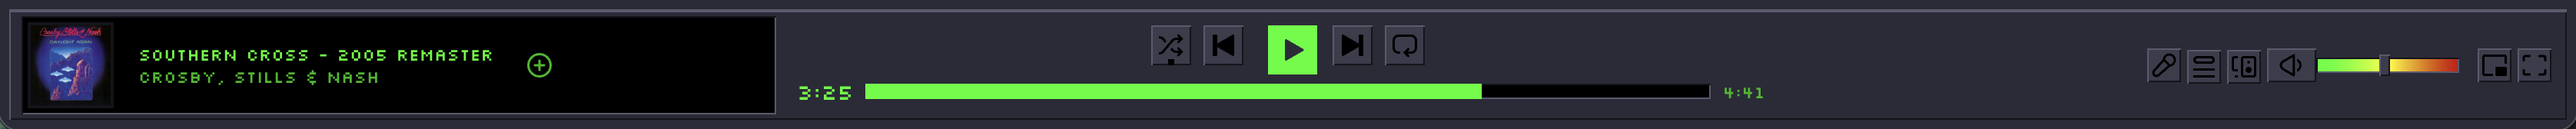
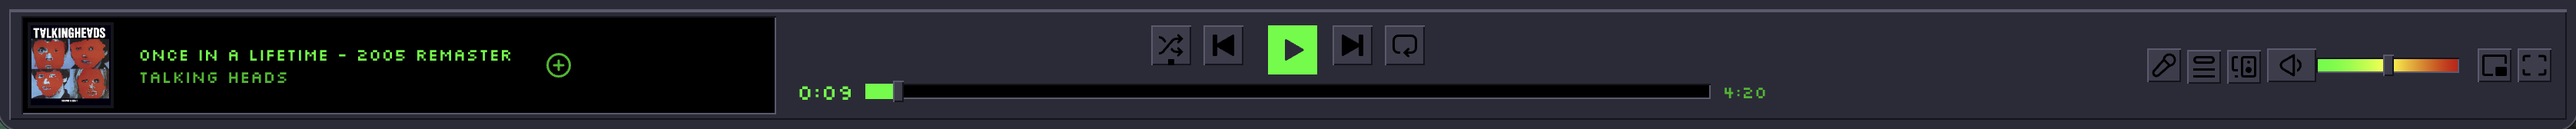
refactor: scope the now playing bar rules and name its measurements

Changed region(s): [[0.0, 0.2083, 0.2172, 0.8036], [0.3103, 0.625, 0.5895, 0.7738], [0.8998, 0.4464, 0.9308, 0.5655]]

diff --git a/user.css b/user.css
@@ -31,6 +31,11 @@
   --wa-display-bg: #000;
   --wa-knob-w: 7px;
   --wa-knob-h: 14px;
+  --wa-groove-h: 10px;
+
+  /* Width reserved on the display for the spectrum analyser canvas that FN-03
+     mounts there, so its size and this padding come from one place. */
+  --wa-spectrum-w: 84px;
 
   /* The middle of the volume gradient. Its ends are theme colours already,
      so only the yellow needs defining here. */
@@ -97,18 +102,18 @@
    becomes the LED panel; the cover keeps its own place to the left of it.
    The padding on the right reserves the strip where FN-03 mounts its canvas,
    so the text never runs underneath it. */
-.main-nowPlayingBar-left [data-testid="now-playing-widget"] {
+.main-nowPlayingBar-nowPlayingBar .main-nowPlayingBar-left [data-testid="now-playing-widget"] {
   background-color: var(--wa-display-bg);
   box-shadow: var(--wa-sunken);
-  padding: 4px 84px 4px 4px;
+  padding: 4px var(--wa-spectrum-w) 4px 4px;
 }
 
 /* The title and artist carry readable class names of their own, so they are
    addressed directly rather than through the widget's testid. */
-.main-nowPlayingWidget-trackInfo .main-trackInfo-name,
-.main-nowPlayingWidget-trackInfo .main-trackInfo-name a,
-.main-nowPlayingWidget-trackInfo .main-trackInfo-artists,
-.main-nowPlayingWidget-trackInfo .main-trackInfo-artists a {
+.main-nowPlayingBar-nowPlayingBar .main-nowPlayingWidget-trackInfo .main-trackInfo-name,
+.main-nowPlayingBar-nowPlayingBar .main-nowPlayingWidget-trackInfo .main-trackInfo-name a,
+.main-nowPlayingBar-nowPlayingBar .main-nowPlayingWidget-trackInfo .main-trackInfo-artists,
+.main-nowPlayingBar-nowPlayingBar .main-nowPlayingWidget-trackInfo .main-trackInfo-artists a {
   font-family: var(--wa-font-pixel);
   font-size: 11px;
   text-transform: uppercase;
@@ -116,19 +121,19 @@
   letter-spacing: 0;
 }
 
-.main-nowPlayingWidget-trackInfo .main-trackInfo-name,
-.main-nowPlayingWidget-trackInfo .main-trackInfo-name a {
+.main-nowPlayingBar-nowPlayingBar .main-nowPlayingWidget-trackInfo .main-trackInfo-name,
+.main-nowPlayingBar-nowPlayingBar .main-nowPlayingWidget-trackInfo .main-trackInfo-name a {
   color: var(--spice-text);
 }
 
-.main-nowPlayingWidget-trackInfo .main-trackInfo-artists,
-.main-nowPlayingWidget-trackInfo .main-trackInfo-artists a {
+.main-nowPlayingBar-nowPlayingBar .main-nowPlayingWidget-trackInfo .main-trackInfo-artists,
+.main-nowPlayingBar-nowPlayingBar .main-nowPlayingWidget-trackInfo .main-trackInfo-artists a {
   color: var(--spice-subtext);
 }
 
 /* The cover sits recessed into the panel, like a part screwed into the case. */
-.main-nowPlayingBar-left [data-testid="cover-art-image"],
-.main-nowPlayingBar-left .cover-art {
+.main-nowPlayingBar-nowPlayingBar .main-nowPlayingBar-left [data-testid="cover-art-image"],
+.main-nowPlayingBar-nowPlayingBar .main-nowPlayingBar-left .cover-art {
   border: 2px solid var(--wa-bevel-dark);
   box-shadow: var(--wa-sunken);
 }
@@ -136,8 +141,8 @@
 /* Transport buttons. Winamp gives play no special shape, so neither do we.
    Only color, shadow and size change: touching layout or pointer-events here
    is how a drag target silently stops working. */
-[data-testid="player-controls"] button,
-.main-nowPlayingBar-right button {
+.main-nowPlayingBar-nowPlayingBar [data-testid="player-controls"] button,
+.main-nowPlayingBar-nowPlayingBar .main-nowPlayingBar-right button {
   background-color: var(--spice-button);
   box-shadow: var(--wa-raised);
   color: var(--spice-shadow);
@@ -146,7 +151,7 @@
 /* Spotify draws play larger than its neighbours; here the whole transport is
    one size. Its green is left alone on purpose: the owner preferred it to the
    uniform gray Winamp has, and it is the one Spotify colour the theme keeps. */
-[data-testid="player-controls"] button {
+.main-nowPlayingBar-nowPlayingBar [data-testid="player-controls"] button {
   width: 26px;
   height: 26px;
 }
@@ -154,21 +159,21 @@
 /* Sized on the column, not on the controls group: the volume speaker and the
    miniplayer and fullscreen buttons live outside extraControls and came out
    at three different widths. One key size for the whole right-hand strip. */
-.main-nowPlayingBar-right button {
+.main-nowPlayingBar-nowPlayingBar .main-nowPlayingBar-right button {
   flex: 0 0 auto;
   width: 22px;
   height: 22px;
   padding: 0;
 }
 
-[data-testid="player-controls"] button:hover,
-.main-nowPlayingBar-right button:hover {
+.main-nowPlayingBar-nowPlayingBar [data-testid="player-controls"] button:hover,
+.main-nowPlayingBar-nowPlayingBar .main-nowPlayingBar-right button:hover {
   background-color: var(--wa-bevel-light);
   transform: none;
 }
 
-[data-testid="player-controls"] button:active,
-.main-nowPlayingBar-right button:active {
+.main-nowPlayingBar-nowPlayingBar [data-testid="player-controls"] button:active,
+.main-nowPlayingBar-nowPlayingBar .main-nowPlayingBar-right button:active {
   box-shadow: var(--wa-sunken);
 }
 
@@ -176,8 +181,8 @@
    with colour alone, which the black icon above overrides. Winamp shows a
    toggled key as pressed in, so the bevel carries the state and the icon
    turns green with it. */
-[data-testid="player-controls"] button[aria-checked="true"],
-.main-nowPlayingBar-right button[aria-checked="true"] {
+.main-nowPlayingBar-nowPlayingBar [data-testid="player-controls"] button[aria-checked="true"],
+.main-nowPlayingBar-nowPlayingBar .main-nowPlayingBar-right button[aria-checked="true"] {
   box-shadow: var(--wa-sunken);
   color: var(--spice-text);
 }
@@ -186,28 +191,28 @@
    reads as a cut-off button rather than a deliberate one. Winamp's case has a
    margin on every side, so the column gets one and its controls are centred
    on the same line. */
-.main-nowPlayingBar-right {
+.main-nowPlayingBar-nowPlayingBar .main-nowPlayingBar-right {
   padding-right: 10px;
 }
 
-.main-nowPlayingBar-extraControls {
+.main-nowPlayingBar-nowPlayingBar .main-nowPlayingBar-extraControls {
   align-items: center;
   gap: 4px;
 }
 
 /* Winamp's elapsed counter is the big number on the panel; the duration is
    the small one beside it. */
-[data-testid="playback-position"],
-[data-testid="playback-duration"] {
+.main-nowPlayingBar-nowPlayingBar [data-testid="playback-position"],
+.main-nowPlayingBar-nowPlayingBar [data-testid="playback-duration"] {
   font-family: var(--wa-font-pixel);
   color: var(--spice-text);
 }
 
-[data-testid="playback-position"] {
+.main-nowPlayingBar-nowPlayingBar [data-testid="playback-position"] {
   font-size: 14px;
 }
 
-[data-testid="playback-duration"] {
+.main-nowPlayingBar-nowPlayingBar [data-testid="playback-duration"] {
   font-size: 11px;
   color: var(--spice-subtext);
 }
@@ -220,32 +225,32 @@
    that, so it is set on the same element, one step more specific. Without it
    the layers stay 4px inside a 10px groove and the bar looks like it shrinks
    when the pointer arrives. */
-[data-testid="playback-progressbar"] .progress-bar,
-.main-nowPlayingBar-volumeBar .progress-bar {
-  --progress-bar-height: 10px;
+.main-nowPlayingBar-nowPlayingBar [data-testid="playback-progressbar"] .progress-bar,
+.main-nowPlayingBar-nowPlayingBar .main-nowPlayingBar-volumeBar .progress-bar {
+  --progress-bar-height: var(--wa-groove-h);
 }
 
 /* Both grooves are a sunken channel of the same height; only what fills them
    differs. */
-[data-testid="playback-progressbar"] .x-progressBar-progressBarBg,
-.main-nowPlayingBar-volumeBar .x-progressBar-progressBarBg {
+.main-nowPlayingBar-nowPlayingBar [data-testid="playback-progressbar"] .x-progressBar-progressBarBg,
+.main-nowPlayingBar-nowPlayingBar .main-nowPlayingBar-volumeBar .x-progressBar-progressBarBg {
   box-shadow: var(--wa-sunken);
-  height: 10px;
+  height: var(--wa-groove-h);
 }
 
-[data-testid="playback-progressbar"] .x-progressBar-progressBarBg {
+.main-nowPlayingBar-nowPlayingBar [data-testid="playback-progressbar"] .x-progressBar-progressBarBg {
   background-color: var(--wa-display-bg);
 }
 
-[data-testid="playback-progressbar"] .x-progressBar-fillColor {
+.main-nowPlayingBar-nowPlayingBar [data-testid="playback-progressbar"] .x-progressBar-fillColor {
   background-color: var(--spice-text);
 }
 
 /* Spotify hides the handle until the bar is hovered. Winamp's slider always
    shows its knob, and on the volume groove the knob is the only level
    indicator, so display is forced rather than opacity. */
-[data-testid="playback-progressbar"] .progress-bar__slider,
-.main-nowPlayingBar-volumeBar .progress-bar__slider {
+.main-nowPlayingBar-nowPlayingBar [data-testid="playback-progressbar"] .progress-bar__slider,
+.main-nowPlayingBar-nowPlayingBar .main-nowPlayingBar-volumeBar .progress-bar__slider {
   display: flex;
   width: var(--wa-knob-w);
   height: var(--wa-knob-h);
@@ -256,7 +261,7 @@
 
 /* The volume groove shows the whole gradient at all times and the knob alone
    says where the level is, which is how Winamp reads it. */
-.main-nowPlayingBar-volumeBar .x-progressBar-progressBarBg {
+.main-nowPlayingBar-nowPlayingBar .main-nowPlayingBar-volumeBar .x-progressBar-progressBarBg {
   background-image: linear-gradient(
     to right,
     var(--spice-text),
@@ -272,8 +277,9 @@
 
    The elapsed part of the seek bar keeps its green instead of the gray
    Spotify switches to, and the volume groove keeps its gradient rather than
-   filling in behind the knob. */
-.main-nowPlayingBar-right .main-nowPlayingBar-volumeBar .progress-bar .x-progressBar-fillColor {
+   filling in behind the knob. Scoping the block to the bar already outranks
+   Spotify's own rules, so none of this needs !important. */
+.main-nowPlayingBar-nowPlayingBar .main-nowPlayingBar-volumeBar .progress-bar .x-progressBar-fillColor {
   background-color: transparent;
 }
 
@@ -283,9 +289,8 @@
 
 /* Spotify reveals a white middle layer to preview where a click would land.
    Winamp's sliders never change under the pointer, and on the volume groove it
-   reads as a chunk of the gradient turning white. The extra ancestor outranks
-   Spotify's own rules without needing !important. */
-.main-nowPlayingBar-right .main-nowPlayingBar-volumeBar .progress-bar .x-progressBar-progressFillColor,
+   reads as a chunk of the gradient turning white. */
+.main-nowPlayingBar-nowPlayingBar .main-nowPlayingBar-volumeBar .progress-bar .x-progressBar-progressFillColor,
 .main-nowPlayingBar-nowPlayingBar [data-testid="playback-progressbar"] .progress-bar .x-progressBar-progressFillColor {
   visibility: hidden;
 }

diff --git a/issues/_index.md b/issues/_index.md
@@ -12,7 +12,7 @@ Source: `SPECS.md`. Spicetify theme that recreates the Winamp 2.x look with CSS,
 | Issue | Name | Status | Dependencies |
 |-------|------|--------|--------------|
 | PP-01 | Base, pixel font and bevel utilities | ✅ done (Sep 10) | FN-00 |
-| PP-02 | Now playing bar as the main panel | planned | PP-01 |
+| PP-02 | Now playing bar as the main panel | ✅ done (Sep 12) | PP-01 |
 | PP-03 | Track list as the playlist window | todo | PP-01 |
 | PP-04 | Sidebar, top bar, navigation and scrollbars | todo | PP-01 |
 | PP-05 | Cards, buttons, inputs, modals, menus and cover art | todo | PP-01 |
